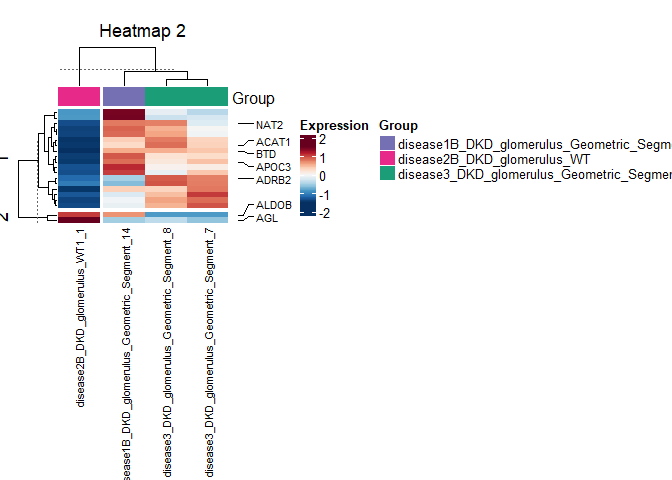
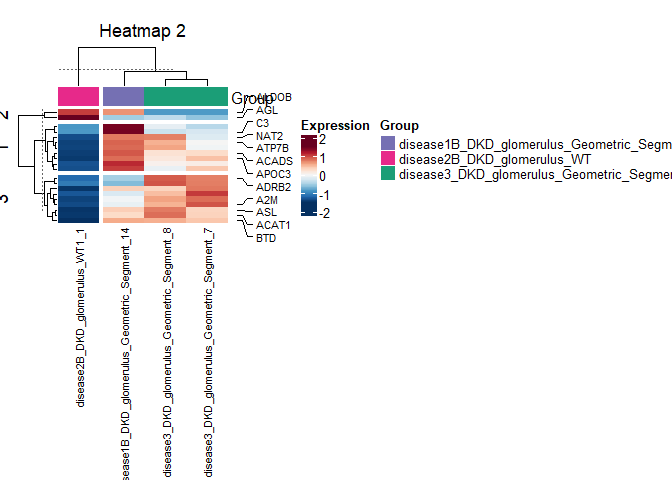
Update README and MAN - default maxK for elbow plot and added elbow plot in README for column clustering

diff --git a/README.md b/README.md
@@ -128,10 +128,23 @@ elbow_plot(seed, scaled_counts)
 #> Warning: empty cluster: try a better set of initial centers
 ```
 
-<img src="man/figures/README-exampleElbowPlot-1.png" width="100%" /> As
-desired, the samples can further be summarized as biological replicates
-to help generate more clearly arranged heatmaps and to give a better
-overview.
+<img src="man/figures/README-exampleElbowPlot-1.png" width="100%" />
+
+This can also be conducted with the transposed matrix to get the number
+of clusters the columns can be divided into:
+
+``` r
+maxK <- 4                                 # only 4 samples therefore a max of 4 clusters possible
+seed <- 1                                 # setting a seed for a reproducible outcome
+transposed_matrix <- t(scaled_counts)     # transposes matrix
+elbow_plot(seed, transposed_matrix, maxK)
+```
+
+<img src="man/figures/README-exampleElbowPlot_columns-1.png" width="100%" />
+
+As desired, the samples can further be summarized as biological
+replicates to help generate more clearly arranged heatmaps and to give a
+better overview.
 
 ``` r
 #print(colnames(scaled_counts))
@@ -367,10 +380,10 @@ HeightNum = 3                                         # optional change of heatm
 UnitSize = "cm"                                       # optional change of heatmap unit for sizes
 
 # Using the adv_Heatmap() function with only the input matrix file. All other parameters use their default option.
-adv_Heatmap(scaled_counts)
+hm <- adv_Heatmap(scaled_counts)
 ```
 
-<img src="man/figures/README-exampleadv_Heatmap_default-1.png" width="100%" /><img src="man/figures/README-exampleadv_Heatmap_default-2.png" width="100%" />
+<img src="man/figures/README-exampleadv_Heatmap_default-1.png" width="100%" />
 
 All the optional parameters can then be changed to the taste and
 specifications of the user. For example, the color scheme can be
